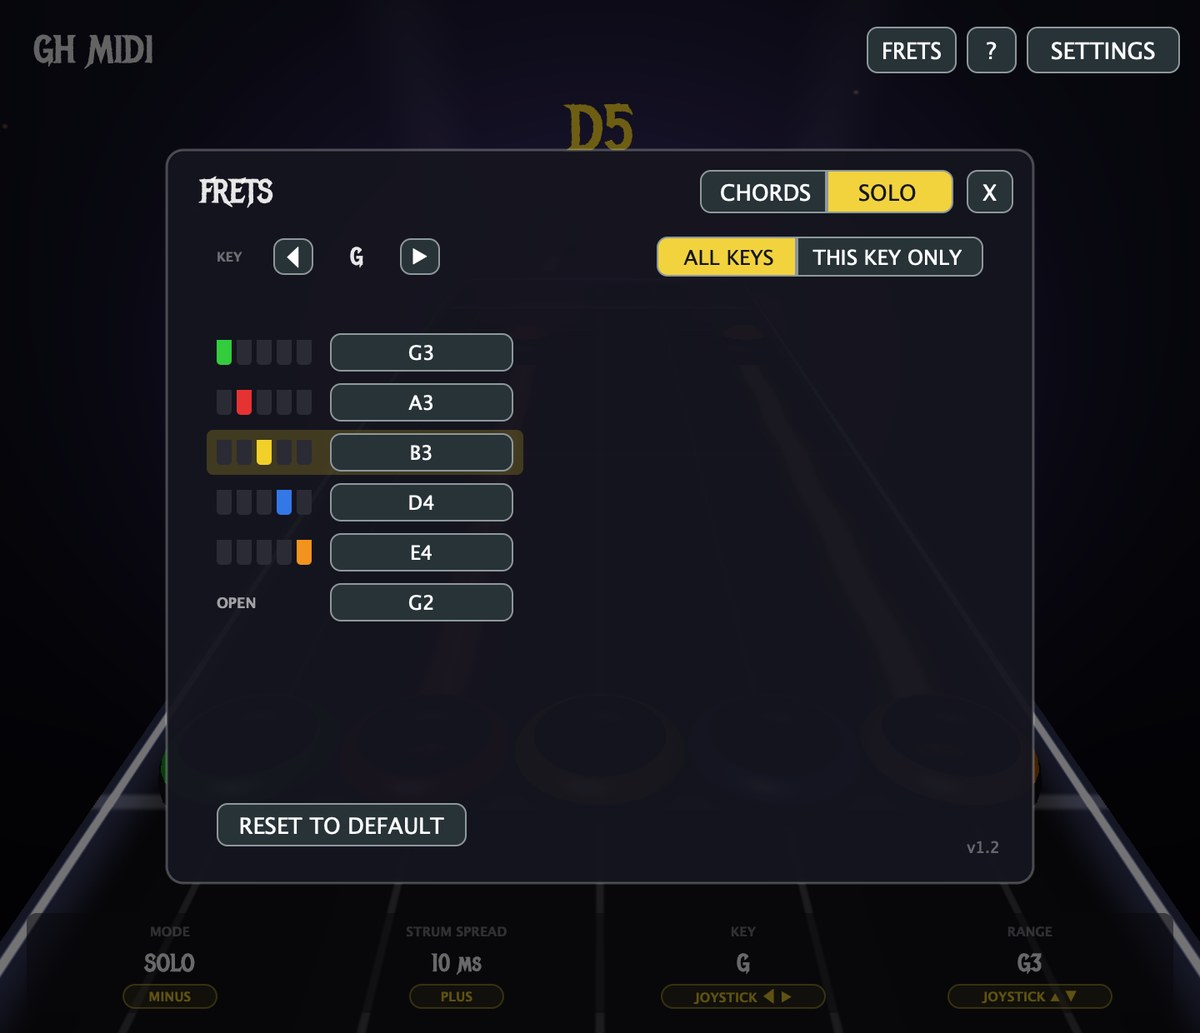
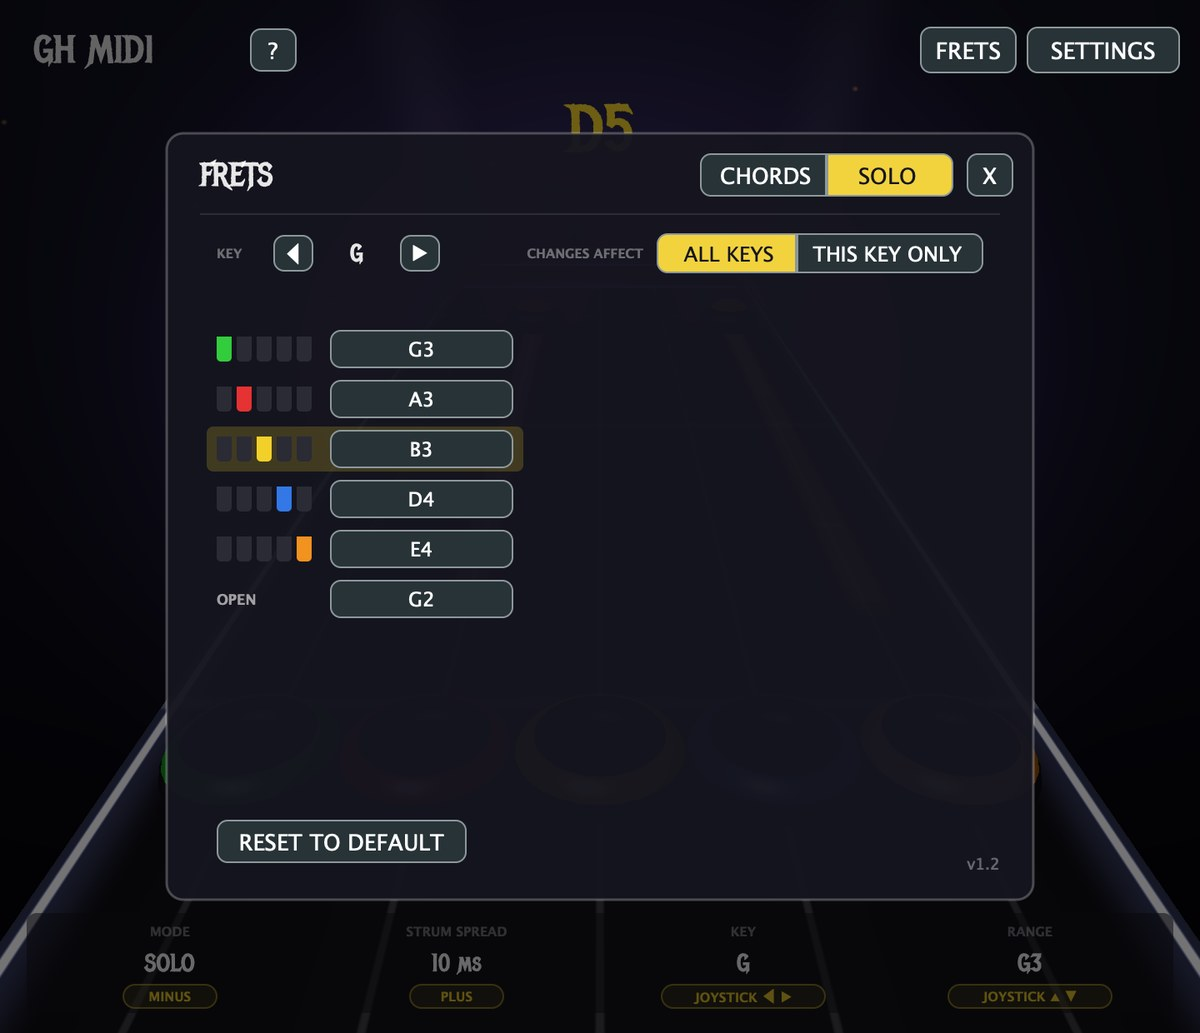
FRETS: CHANGES AFFECT label + divider, roomier key row; ? moves by the wordmark so FRETS and SETTINGS sit together; final save on quit

diff --git a/plugin/src/PluginEditor.cpp b/plugin/src/PluginEditor.cpp
@@ -44,9 +44,9 @@ juce::Rectangle<int> helpBounds(int W, int H)
 // Each row: five gem tabs, then the clickable chord/note button.
 juce::Rectangle<int> fretsBounds(int W, int H)
 {
-    return { W / 2 - 260, H / 2 - 220, 520, 440 };
+    return { W / 2 - 260, H / 2 - 230, 520, 460 };
 }
-int fretsTop(juce::Rectangle<int> fb) { return fb.getY() + 96; }
+int fretsTop(juce::Rectangle<int> fb) { return fb.getY() + 104; }
 juce::Point<int> chordRowPos(int slot, juce::Rectangle<int> fb)
 {
     if (slot < 5)
@@ -697,8 +697,9 @@ void GHMidiEditor::resized()
 {
     highway.setViewSize(getWidth(), getHeight());
     gearBtn.setBounds(getWidth() - 104, 16, 92, 28);
-    helpBtn.setBounds(getWidth() - 140, 16, 30, 28);
-    fretsBtn.setBounds(getWidth() - 200, 16, 54, 28);
+    // ? sits by the wordmark; FRETS and SETTINGS stay together top-right
+    helpBtn.setBounds(150, 17, 28, 26);
+    fretsBtn.setBounds(getWidth() - 104 - 6 - 58, 16, 58, 28);
 
     // FRETS editor
     {
@@ -707,7 +708,7 @@ void GHMidiEditor::resized()
         fretsTabSolo.setBounds(fb.getRight() - 48 - 76, fb.getY() + 12, 76, 26);
         fretsTabChords.setBounds(fb.getRight() - 48 - 152, fb.getY() + 12, 76, 26);
         fretsResetBtn.setBounds(fb.getX() + 30, fb.getBottom() - 48, 150, 26);
-        const int ky = fb.getY() + 52;
+        const int ky = fb.getY() + 60;
         fretsKeyPrev.setBounds(fb.getX() + 64, ky + 1, 24, 22);   // same size as the plate arrows
         fretsKeyNext.setBounds(fb.getX() + 64 + 24 + 52, ky + 1, 24, 22);
         thisKeyBtn.setBounds(fb.getRight() - 30 - 112, ky, 112, 24);
@@ -983,10 +984,16 @@ void GHMidiEditor::paint(juce::Graphics& g)
         // KEY  < G >   -- the key these binds are for (the playing key)
         g.setColour(juce::Colours::white.withAlpha(0.38f));
         g.setFont(juce::Font(juce::FontOptions(9.0f, juce::Font::bold)));
-        g.drawText("KEY", fb.getX() + 30, fb.getY() + 52, 30, 24, juce::Justification::centredLeft);
+        g.drawText("KEY", fb.getX() + 30, fb.getY() + 60, 30, 24, juce::Justification::centredLeft);
+        g.drawText("CHANGES AFFECT", fb.getRight() - 30 - 196 - 104, fb.getY() + 60, 96, 24,
+                   juce::Justification::centredRight);
         g.setColour(juce::Colours::white.withAlpha(0.9f));
         g.setFont(ghFont(18.0f));
-        g.drawText(keyNames[key], fb.getX() + 88, fb.getY() + 52, 52, 24, juce::Justification::centred);
+        g.drawText(keyNames[key], fb.getX() + 88, fb.getY() + 60, 52, 24, juce::Justification::centred);
+        // a hairline between the tab row and the key row, so the two toggle
+        // pairs don't read as one stack
+        g.setColour(juce::Colours::white.withAlpha(0.10f));
+        g.fillRect(fb.getX() + 20, fb.getY() + 48, fb.getWidth() - 40, 1);
         auto tabs = [&](int x, int y, int mask)
         {
             for (int i = 0; i < 5; ++i)

diff --git a/guide/build_guide.py b/guide/build_guide.py
@@ -257,7 +257,7 @@ def p_screen():
     return h2("05", "The screen") + f"""
 <div class="shotwrap mid"><img class="shot" src="assets/ui-chords.jpg" alt="">{dots}</div>
 <table class="legend">
-<tr><td><span class="cn">1</span></td><td><b>FRETS, ? and SETTINGS</b> — change what each fret plays, a quick controls reminder, and the settings panel.</td></tr>
+<tr><td><span class="cn">1</span></td><td><b>FRETS and SETTINGS</b> — change what each fret plays, and the settings panel. The <b>?</b> by the logo is a quick controls reminder.</td></tr>
 <tr><td><span class="cn">2</span></td><td><b>What you played</b> — the chord or note name, and every setting change.</td></tr>
 <tr><td><span class="cn">3</span></td><td><b>The highway</b> — your notes travel away as gems. Held notes trail; the whammy wiggles them.</td></tr>
 <tr><td><span class="cn">4</span></td><td><b>MODE</b> — CHORDS, NOTES, SOLO or CHART. Arrows or minus.</td></tr>
@@ -430,7 +430,7 @@ def p_custom():
 <p>Press <b>FRETS</b> at the top of the screen. Every fret shape is listed with what it plays now. Click one and pick something else.</p>
 <p><b>CHORDS</b> tab: the five single frets and all ten two-fret pairs. The menu starts with the chords of your key, then their sevenths, then common chords from outside the key. <b>ANY CHORD</b> has every chord on every root.</p>
 <p><b>SOLO</b> tab: the five frets and the open strum. The menu lists the notes of your key, low to high. <b>OTHER NOTES</b> has the rest.</p>
-<p><b>KEY</b> arrows change the key you're binding (and playing). <b>ALL KEYS</b>: your picks follow every key. <b>THIS KEY ONLY</b>: this key gets its own set; switching back to ALL KEYS drops it.</p>
+<p><b>KEY</b> arrows change the key you're binding (and playing). <b>CHANGES AFFECT: ALL KEYS</b>: your picks follow every key. <b>THIS KEY ONLY</b>: this key gets its own set; switching back to ALL KEYS drops it. Everything is saved as you go.</p>
 <p>Press frets on the guitar and their row lights up. <b>RESET TO DEFAULT</b> puts the tab back.</p>
 </div>
 <div>

diff --git a/plugin/src/PluginProcessor.cpp b/plugin/src/PluginProcessor.cpp
@@ -948,6 +948,8 @@ void GuitarService::run()
             wait(1);
     }
     allOff();
+    if (saveRequest.exchange(false))
+        saveSettings();   // a change made just before quitting still lands
     virtualOut.reset();
     portOut.reset();
     if (dev != nullptr)
